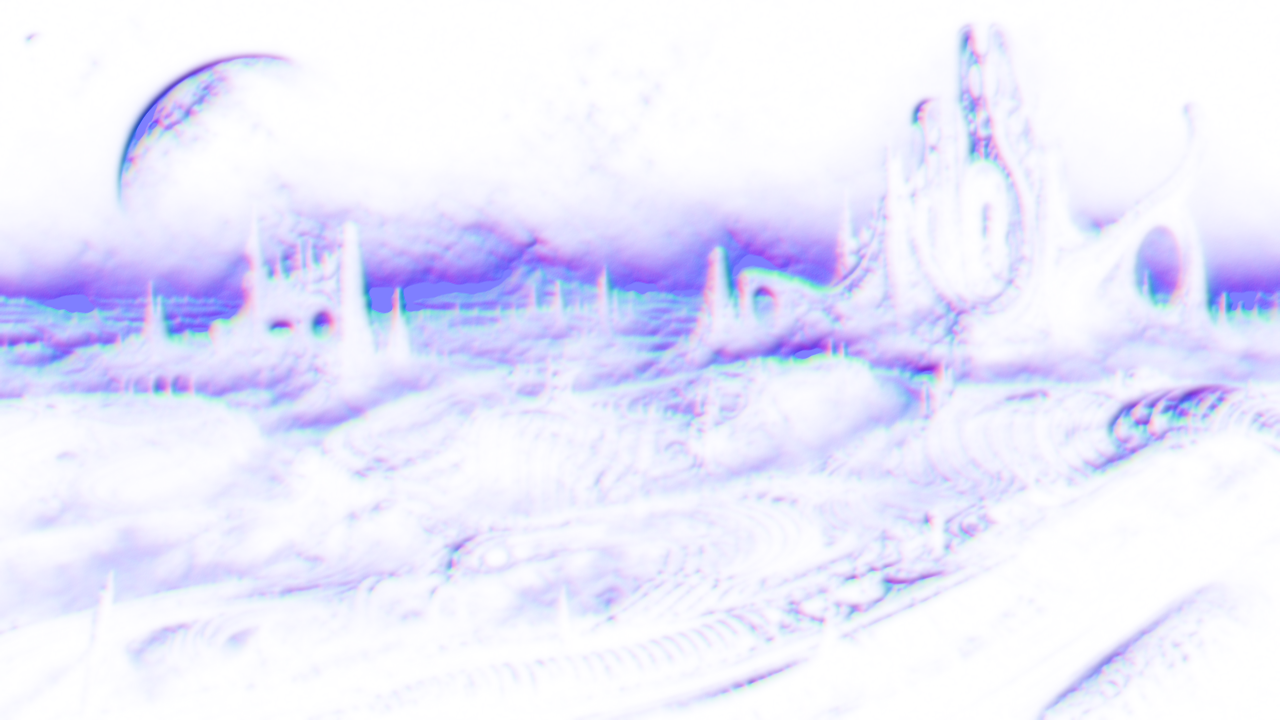
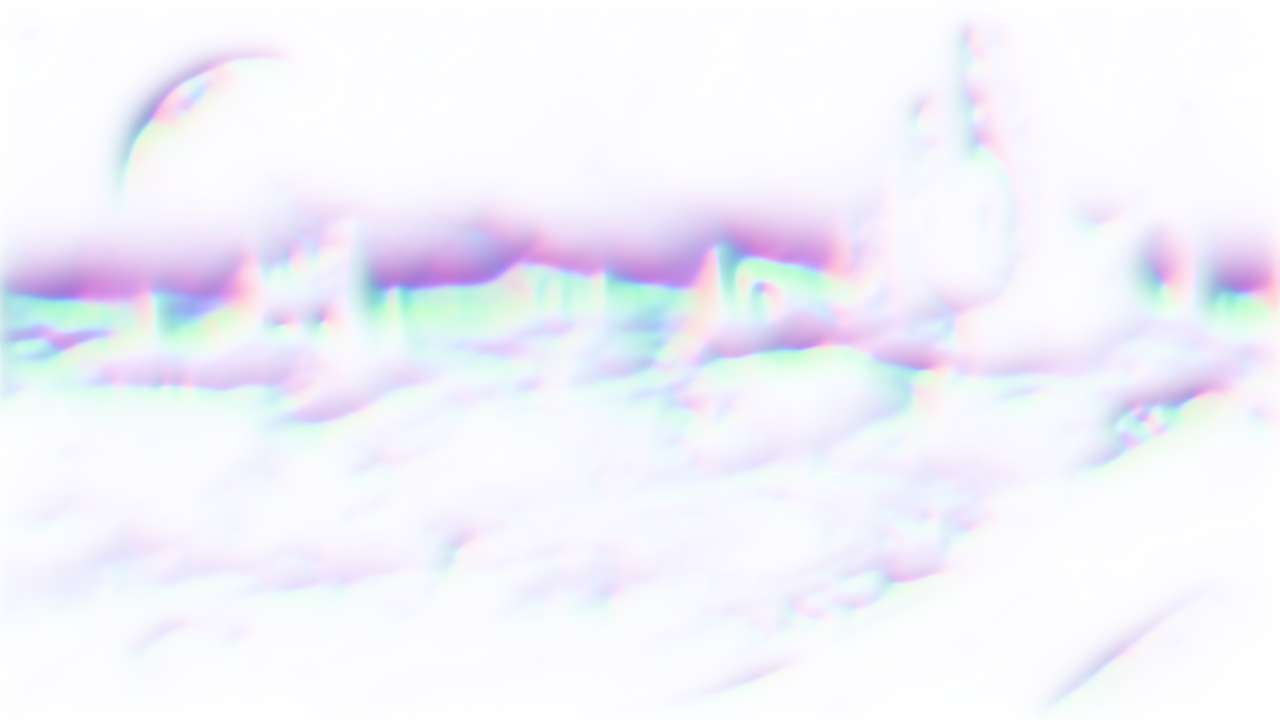
Gate spinning 4-band background beam to 3D ridges with multiplicative lighting

diff --git a/src/ui_board.c b/src/ui_board.c
@@ -107,7 +107,22 @@ void board_load_assets(BoardAssets *ba) {
         "assets/castle.jpg",  "assets/city.jpg", "assets/deus.png",
         "assets/face.jpg", "assets/realm.jpg"
     };
-    for (int i = 0; i < 8; i++) ba->bgs[i] = LoadTexture(get_path(bg_names[i]));
+    const char *normal_names[8] = {
+        "assets/harvest_normal.png", "assets/hole_normal.png", "assets/arctic_normal.png",
+        "assets/castle_normal.png", "assets/city_normal.png", "",
+        "assets/face_normal.png", "assets/realm_normal.png"
+    };
+    for (int i = 0; i < 8; i++) {
+        ba->bgs[i] = LoadTexture(get_path(bg_names[i]));
+        ba->bg_normals[i].id = 0;
+        if (normal_names[i][0] != '\0') {
+            ba->bg_normals[i] = LoadTexture(get_path(normal_names[i]));
+            if (ba->bg_normals[i].id > 0) {
+                SetTextureFilter(ba->bg_normals[i], TEXTURE_FILTER_BILINEAR);
+                SetTextureWrap(ba->bg_normals[i], TEXTURE_WRAP_CLAMP);
+            }
+        }
+    }
 
 #ifdef __EMSCRIPTEN__
     ba->fog_shader = LoadShader(0, get_path("assets/depth_fog_web.fs"));
@@ -115,7 +130,14 @@ void board_load_assets(BoardAssets *ba) {
     ba->fog_shader = LoadShader(0, get_path("assets/depth_fog.fs"));
 #endif
     ba->has_fog_shader = (ba->fog_shader.id > 0);
-    if (ba->has_fog_shader) ba->fog_time_loc = GetShaderLocation(ba->fog_shader, "time");
+    ba->fog_time_loc = ba->light_normal_loc = ba->light_enabled_loc = ba->light_height_range_loc = ba->light_flash_loc = -1;
+    if (ba->has_fog_shader) {
+        ba->fog_time_loc = GetShaderLocation(ba->fog_shader, "time");
+        ba->light_normal_loc = GetShaderLocation(ba->fog_shader, "normalMap");
+        ba->light_enabled_loc = GetShaderLocation(ba->fog_shader, "lightEnabled");
+        ba->light_height_range_loc = GetShaderLocation(ba->fog_shader, "heightRange");
+        ba->light_flash_loc = GetShaderLocation(ba->fog_shader, "flashAmount");
+    }
 
     ba->current_bg = 0; ba->assets_loaded = 1;
 }
@@ -127,7 +149,10 @@ void board_unload_assets(BoardAssets *ba) {
     if (ba->coin_gold.id > 0) UnloadTexture(ba->coin_gold);
     if (ba->coin_silver.id > 0) UnloadTexture(ba->coin_silver);
     if (ba->coin_bronze.id > 0) UnloadTexture(ba->coin_bronze);
-    for (int i = 0; i < 8; i++) UnloadTexture(ba->bgs[i]);
+    for (int i = 0; i < 8; i++) {
+        UnloadTexture(ba->bgs[i]);
+        if (ba->bg_normals[i].id > 0) UnloadTexture(ba->bg_normals[i]);
+    }
     if (ba->has_fog_shader) { UnloadShader(ba->fog_shader); ba->has_fog_shader = 0; }
     ba->assets_loaded = 0;
 }
@@ -242,11 +267,41 @@ void board_draw_table(const BoardAssets *ba, const GameState *g, const AnimState
                       int easy_mode, int replay_mode, const char *status_msg) {
     float cur_time = (float)GetTime();
     float frame_dt = GetFrameTime();
+    static int prev_capture_fly = 0;
+    static float thunder_flash = 0.0f;
+    int capture_fly = (anim && anim->active && anim->type == ANIM_CAPTURE_FLY);
+    if (capture_fly && !prev_capture_fly) thunder_flash = 1.0f;
+    prev_capture_fly = capture_fly;
+    if (thunder_flash > 0.0f) {
+        if (thunder_flash > 0.40f) {
+            thunder_flash -= frame_dt * 2.8f;
+            if (thunder_flash < 0.40f) thunder_flash = 0.40f;
+        } else {
+            thunder_flash *= expf(-frame_dt / 1.5625f);
+        }
+    }
 
-    /* 1. Background with hybrid 3D depth-fog shader */
+    /* 1. Background with depth fog and a localized normal-map light */
     if (ba->has_fog_shader) {
+        static const float height_ranges[8][2] = {
+            { 0.078f, 0.165f }, { 0.133f, 0.231f }, { 0.086f, 0.161f },
+            { 0.149f, 0.353f }, { 0.063f, 0.122f }, { 0.0f, 1.0f },
+            { 0.078f, 0.157f }, { 0.067f, 0.122f }
+        };
+        int bg = ba->current_bg;
+        float light_enabled = (bg >= 0 && bg < 8 && ba->bg_normals[bg].id > 0 &&
+                               ba->light_normal_loc >= 0 && ba->light_enabled_loc >= 0 &&
+                               ba->light_height_range_loc >= 0) ? 1.0f : 0.0f;
         SetShaderValue(ba->fog_shader, ba->fog_time_loc, &cur_time, SHADER_UNIFORM_FLOAT);
+        SetShaderValue(ba->fog_shader, ba->light_enabled_loc, &light_enabled, SHADER_UNIFORM_FLOAT);
+        if (ba->light_flash_loc >= 0)
+            SetShaderValue(ba->fog_shader, ba->light_flash_loc, &thunder_flash, SHADER_UNIFORM_FLOAT);
+        if (light_enabled > 0.5f)
+            SetShaderValue(ba->fog_shader, ba->light_height_range_loc,
+                           height_ranges[bg], SHADER_UNIFORM_VEC2);
         BeginShaderMode(ba->fog_shader);
+        if (light_enabled > 0.5f)
+            SetShaderValueTexture(ba->fog_shader, ba->light_normal_loc, ba->bg_normals[bg]);
     }
     if (ba->current_bg >= 0 && ba->current_bg < 8 && ba->bgs[ba->current_bg].id > 0) {
         DrawTexturePro(ba->bgs[ba->current_bg], (Rectangle){ 0, 0, 1280, 720 }, (Rectangle){ 0, 0, 1280, 720 }, (Vector2){ 0, 0 }, 0.0f, WHITE);

diff --git a/src/ui_board.h b/src/ui_board.h
@@ -14,10 +14,15 @@ typedef struct {
     Texture2D coin_silver;
     Texture2D coin_bronze;
     Texture2D bgs[8];
+    Texture2D bg_normals[8];
     int current_bg;
     int assets_loaded;
     Shader fog_shader;
     int fog_time_loc;
+    int light_normal_loc;
+    int light_enabled_loc;
+    int light_height_range_loc;
+    int light_flash_loc;
     int has_fog_shader;
 } BoardAssets;
 

diff --git a/STATUS.md b/STATUS.md
@@ -1,12 +1,16 @@
-> **Development handoff (last updated 20 October 2026).** This records the local source status and verification noted below; it is not a release or deployment record. For current rules, use the code in `src/` and the wiki in `docs/`. The original build spec, `HANDOFF_KoiKoi_Giger_v2.pdf`, is legacy; see `AGENTS.md` and `docs/errata.md`.
+> **Development handoff (last updated 21 October 2026).** This records the local source status and verification noted below; it is not a release or deployment record. For current rules, use the code in `src/` and the wiki in `docs/`. The original build spec, `HANDOFF_KoiKoi_Giger_v2.pdf`, is legacy; see `AGENTS.md` and `docs/errata.md`.
 # XENO/KOI: BIOMECHANICAL EDITION — Project Status
 
 # XENO/KOI: BIOMECHANICAL EDITION - STATUS REPORT
-**Last updated: 20 October 2026.** This is a development handoff for the local source, not a release or deployment record. Code in `src/` defines behavior; the wiki in `docs/` explains the rules. See `AGENTS.md` for contributor guardrails and `docs/errata.md` for known issues.
+**Last updated: 21 October 2026.** This is a development handoff for the local source, not a release or deployment record. Code in `src/` defines behavior; the wiki in `docs/` explains the rules. See `AGENTS.md` for contributor guardrails and `docs/errata.md` for known issues.
 
 ## Status Summary
 ## Latest completed work
 
+- Added per-background normal-map lighting for the seven non-Deus table backgrounds (`src/ui_board.c`, `src/ui_board.h`, `assets/*_normal.png`, `assets/depth_fog.fs`, `assets/depth_fog_web.fs`; Deus remains unchanged):
+  - One drifting, spinning 4-band light beam (32.1 s round-trip drift, spin 10% faster, nested bands `1.568 / 1.176 / 0.784 / 0.392` at `10%–20%` combined via `max()`) with a capture thunder-flash spike (`ANIM_CAPTURE_FLY`) and slow exponential decay.
+  - Gated the beam to 3D normal-map ridges (`smoothstep(0.14, 0.52, length(n.xy))`) combined with an inverted alpha bright-zone mask (`1.0 - smoothstep(heightRange.x, heightRange.y, map.a)`) so already-bright sky/highlight areas do not blow out while dark biomechanical structures receive the light.
+  - Replaced the screen-blend wash with multiplicative lighting plus a luminance-gated ridge glint, and fed the lit color into the lower-board depth-fog luminance mask so lit ridges shine through the fog without turning black shadows into grey fog.
 - Added click-to-select / click-to-play alongside existing dragging. Selection and matching field cards remain outlined; clicking the selected card again, right-clicking, or pressing Esc cancels selection. Small pointer movements are tolerated as clicks.
 - Enlarged and brightened the ruleset label. Combo summaries now have fixed bounds and shortened preview names instead of overflowing.
 - Made both combo panels open paginated details with full names, points, card images, and multiplier breakdowns. Gameplay, CPU/replay progress, animations, and the turn timer pause during inspection; closing the window consumes the input rather than playing through it.
@@ -16,14 +20,15 @@
 
 ## Verification last completed in this session
 
-- Engine integrity suite passed, including 500 full simulated matches.
-- Browser tooltip regression passed, generated wiki tables are current, and `git diff --check` passed.
-- Compiled `src/ui_theme.c` with `-Wall -Wextra -Werror` against a temporary Raylib API stub. Stub harnesses passed the 3–5-per-box bounds and independent storage, keyed flare continuity as card rectangles move, panel-scoped flash (other boxes stay dim), the 400 ms +3 px pulse, no retrigger while held, re-entry, and travel around all four perimeter sides. These are not a graphical playtest.
-- Raylib headers are not installed locally, so the Raylib table UI test and live graphical playtest were not run.
-- CI results for each pushed revision are tracked on PR #56.
+- Engine integrity suite (`./build.sh test`) passed, including 500 full simulated matches.
+- Headless table UI and combo-panel regression suite (`./tests/test_table_ui.sh`) passed against Raylib 5.5 headers.
+- Strict C99 syntax check (`gcc -std=c99 -Wall -Wextra -Werror -fsyntax-only`) across all `src/*.c` passed.
+- Generated wiki tables check (`python3 tools/gen_wiki_tables.py --check`), desktop/web `moving-lights` shader-block parity, and `git diff --check` passed.
+- Offline full-pipeline shader simulation (normal-map lighting + depth fog + vignette + table dim + gamma 1.40) verified across all seven non-Deus backgrounds and capture flash states.
 
 ## Still to verify
 
+- Visually check the moving/spinning 4-band background beam, 3D ridge gating, and capture thunder flash on a live GPU across desktop and web builds, and confirm Deus remains unchanged.
 - Visually check the 400 ms, +3 px flare growth, perimeter movement (including the highlighted cards), speed variation, and return to baseline while the pointer remains over the panel.
 - Visually playtest click/drag coexistence, selection feedback, and panel readability.
 - Check both combo windows, pagination, and timer pause/resume in live play and replay playback.
